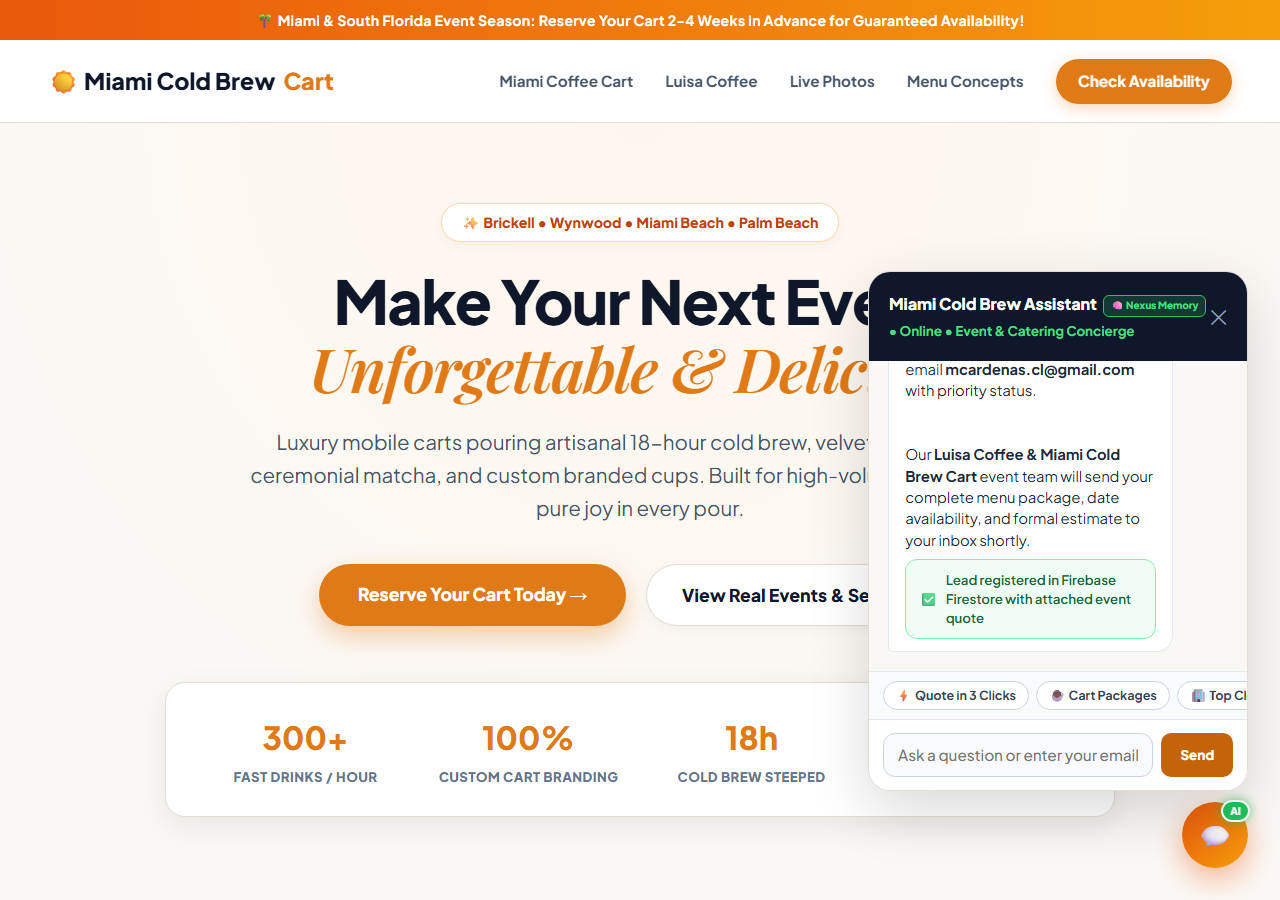
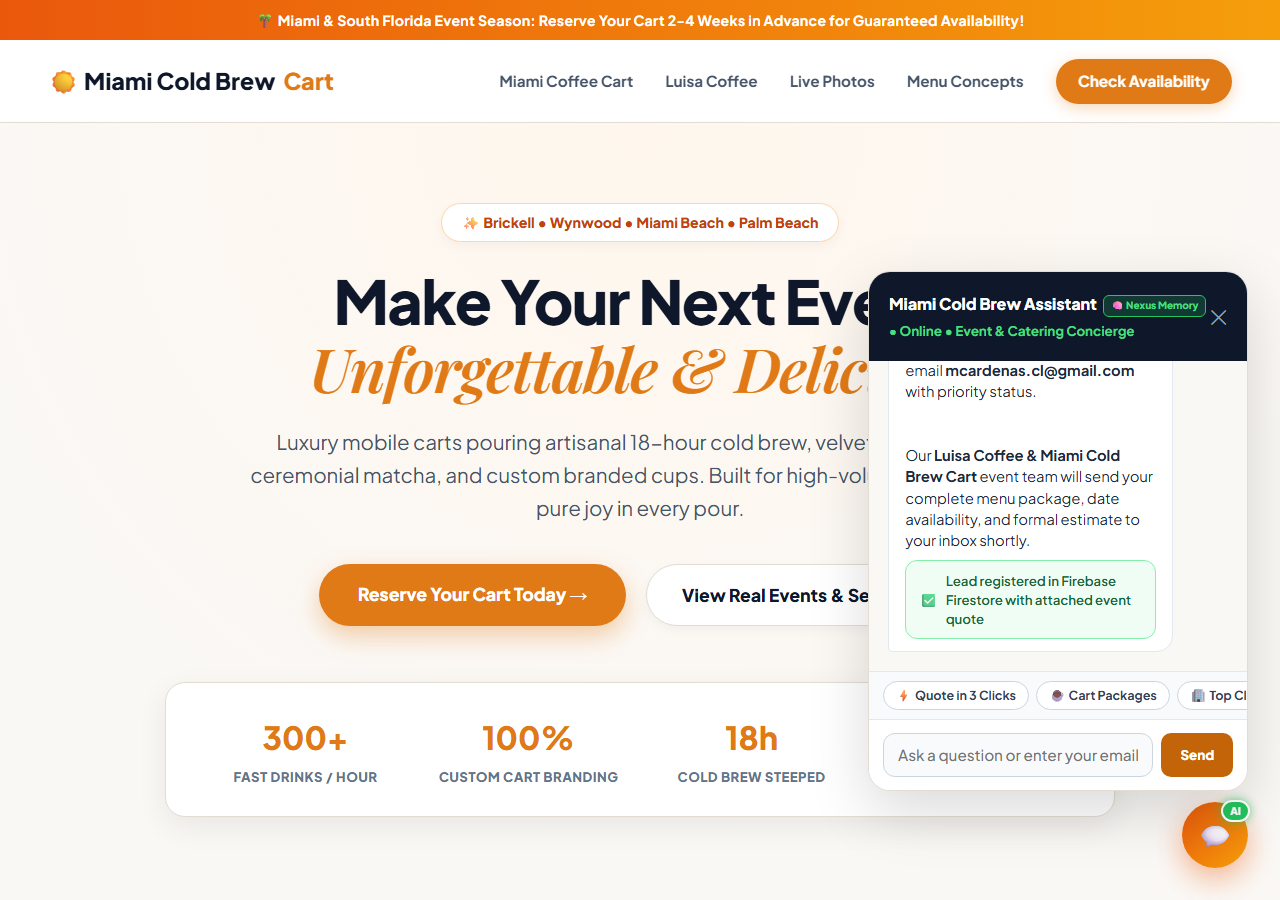
feat: integrate all 7 Luisa Coffee Group companies and multi-service combinations into chatbot, pipeline, and footer

Changed region(s): [[0.7188, 0.4978, 0.875, 0.5911], [0.7188, 0.6222, 0.875, 0.7156], [0.6875, 0.4044, 0.875, 0.4356]]

diff --git a/index.html b/index.html
@@ -1401,7 +1401,9 @@
       <a href="https://luisacoffee.com" target="_blank">Luisa Coffee</a>
       <a href="https://miamimatchacart.com" target="_blank">Miami Matcha Cart</a>
       <a href="https://miamihotchocolatecart.com" target="_blank">Miami Hot Chocolate Cart</a>
-      <a href="https://miamirefresercart.com" target="_blank">Miami Refresher Cart</a>
+      <a href="https://miamirefreshercart.com" target="_blank">Miami Refresher Cart</a>
+      <a href="https://miamicoffeeservices.com" target="_blank">Miami Coffee Services</a>
+      <a href="https://miamicoffeelab.com" target="_blank">Miami Coffee Lab</a>
       <a href="#book-event">Book Event</a>
     </div>
     <p style="font-size: 0.85rem; color: #64748b; margin-bottom: 0.8rem; max-width: 820px; margin-left: auto; margin-right: auto; line-height: 1.6;">
@@ -1500,7 +1502,15 @@
         { name: "Miami Coffee Cart", specialty: "Full Italian espresso bars, live latte art demonstrations, and 'Luisa Moments' live guestbook photo activations.", url: "https://miamicoffeecart.com" },
         { name: "Miami Matcha Cart", specialty: "Ceremonial Uji matcha whisked fresh to order, strawberry matcha lattes, and organic plant-based milks.", url: "https://miamimatchacart.com" },
         { name: "Miami Hot Chocolate Cart", specialty: "Gourmet Swiss/Belgian melted chocolate with hand-torched marshmallow toppings and edible gold flakes.", url: "https://miamihotchocolatecart.com" },
-        { name: "Miami Refresher Cart", specialty: "Handcrafted fruit refreshers, sparkling iced teas, and botanical herbal infusions.", url: "https://miamirefreshercart.com" }
+        { name: "Miami Refresher Cart", specialty: "Handcrafted fruit refreshers, sparkling iced teas, and botanical herbal infusions.", url: "https://miamirefreshercart.com" },
+        { name: "Miami Coffee Services", specialty: "Full-service office espresso machines, bean subscriptions, and breakroom coffee catering.", url: "https://miamicoffeeservices.com" },
+        { name: "Miami Coffee Lab", specialty: "Coffee education, tasting workshops, barista training, and sensory lab sessions.", url: "https://miamicoffeelab.com" }
+      ],
+      combinationServices: [
+        "Cold Brew + Espresso Dual Cart (Miami Cold Brew Cart + Miami Coffee Cart)",
+        "Coffee & Ceremonial Matcha Dual Bar (Espresso + Fresh Uji Matcha)",
+        "Ultimate 3-in-1 Triple Experience (Cold Brew + Espresso + Matcha & Refreshers)",
+        "Corporate Cart & Office Coffee Setup (Event Catering + Office Coffee Subscription)"
       ],
       trustedClients: [
         "Mana Tech", "Mana Wynwood", "Saks Fifth Avenue", "Merrill (A Bank of America Company)",
@@ -1609,6 +1619,8 @@ Select your preferred beverage cart experience:`,
               <button type="button" class="chat-opt-btn" onclick="selectInteractiveConcept('Ceremonial Matcha & Refreshers')">🍵 Matcha Bar</button>
               <button type="button" class="chat-opt-btn" onclick="selectInteractiveConcept('Specialty Espresso & Latte Art')">☕ Espresso & Latte</button>
               <button type="button" class="chat-opt-btn" onclick="selectInteractiveConcept('Gourmet Hot Chocolate Bar')">🍫 Hot Chocolate</button>
+              <button type="button" class="chat-opt-btn" onclick="selectInteractiveConcept('Multi-Bar Combination (Cold Brew + Espresso + Matcha)')">✨ Multi-Bar Combo (Cold Brew + Espresso + Matcha)</button>
+              <button type="button" class="chat-opt-btn" onclick="selectInteractiveConcept('Corporate Office Coffee & Event Service (Miami Coffee Services)')">🏢 Office Coffee & Events</button>
             </div>
           </div>`
         );
@@ -1776,16 +1788,19 @@ Or type your email or phone number here and we'll connect with you right away!`
       }
 
       // Packages
-      if (q.includes('package') || q.includes('menu') || q.includes('offer') || q.includes('option') || q.includes('paquete')) {
+      if (q.includes('package') || q.includes('menu') || q.includes('offer') || q.includes('option') || q.includes('paquete') || q.includes('brand') || q.includes('group') || q.includes('combine') || q.includes('combo')) {
         return {
           type: 'info',
-          text: `☕ <strong>Our 5 Mobile Beverage Experiences:</strong><br><br>
-1⃣ <strong>Signature Nitro Cold Brew Bar:</strong> Nitrogen-infused cold brew on tap with velvety cascading foam and artisan syrups.<br>
-2⃣ <strong>Ceremonial Matcha Bar:</strong> Uji ceremonial-grade matcha whisked fresh to order and organic fruit refreshers.<br>
-3⃣ <strong>Specialty Espresso Bar:</strong> Italian commercial espresso machine, cortados, flat whites, and live latte art.<br>
-4⃣ <strong>Gourmet Hot Chocolate Bar:</strong> Rich Belgian chocolate with torched artisan marshmallows and gold leaf flake.<br>
-5⃣ <strong>Craft Fruit Refresher Bar:</strong> Cold-pressed juices, sparkling botanical infusions, and mocktails.<br><br>
-Click <strong>'⚡ Quote in 3 Clicks'</strong> above to calculate your event price in seconds!`
+          text: `🌿 <strong>Luisa Coffee Group Brands & Experiences:</strong><br><br>
+1⃣ <strong>Miami Cold Brew Cart:</strong> Nitrogen-infused cold brew on tap with cascading crema (<a href="https://miamicoldbrewcart.com" target="_blank" style="color:var(--primary);">miamicoldbrewcart.com</a>)<br>
+2⃣ <strong>Miami Coffee Cart:</strong> Mobile espresso bars, live latte art & Luisa Moments live guestbook (<a href="https://miamicoffeecart.com" target="_blank" style="color:var(--primary);">miamicoffeecart.com</a>)<br>
+3⃣ <strong>Miami Matcha Cart:</strong> Ceremonial Uji matcha whisked fresh to order (<a href="https://miamimatchacart.com" target="_blank" style="color:var(--primary);">miamimatchacart.com</a>)<br>
+4⃣ <strong>Miami Hot Chocolate Cart:</strong> Artisanal hot chocolate with torched marshmallows & gold flake (<a href="https://miamihotchocolatecart.com" target="_blank" style="color:var(--primary);">miamihotchocolatecart.com</a>)<br>
+5⃣ <strong>Miami Refresher Cart:</strong> Sparkling iced teas & botanical fruit refreshers (<a href="https://miamirefreshercart.com" target="_blank" style="color:var(--primary);">miamirefreshercart.com</a>)<br>
+6⃣ <strong>Miami Coffee Services:</strong> Corporate office coffee machines & bean supply (<a href="https://miamicoffeeservices.com" target="_blank" style="color:var(--primary);">miamicoffeeservices.com</a>)<br>
+7⃣ <strong>Miami Coffee Lab:</strong> Barista training, tasting classes & sensory workshops (<a href="https://miamicoffeelab.com" target="_blank" style="color:var(--primary);">miamicoffeelab.com</a>)<br><br>
+✨ <strong>Yes, you can combine services!</strong> We offer custom dual-bar and triple-bar activations (e.g. <em>Cold Brew + Espresso + Matcha</em>) tailored for high-volume corporate and wedding events.<br><br>
+Click <strong>'⚡ Quote in 3 Clicks'</strong> to calculate an estimate!`
         };
       }
 

diff --git a/functions/index.js b/functions/index.js
@@ -33,9 +33,35 @@ function defineScope(profile) {
   const bottleneck = (profile.bottleneck || "").toLowerCase();
   const kw = helpWith + " " + bottleneck;
 
-  if (kw.includes("matcha") || kw.includes("refresher") || kw.includes("content")) {
+  if (kw.includes("combination") || kw.includes("multi-bar") || kw.includes("combo") || (kw.includes("cold brew") && kw.includes("espresso")) || (kw.includes("cold brew") && kw.includes("matcha"))) {
     return {
-      service: "Ceremonial Matcha & Tropical Refresher Activation",
+      service: "Luisa Coffee Group Custom Multi-Bar Experience (Cold Brew + Espresso + Matcha)",
+      deliverables: [
+        "Dual mobile cart stations: Signature Nitro Cold Brew + Commercial Italian Espresso & Matcha bar",
+        "Unlimited single-origin 18-hour cold brew on tap, velvety nitro cascades, and hot espresso specialties",
+        "Ceremonial Uji matcha whisked fresh to order + tropical handcrafted refreshers",
+        "Custom branded cup sleeves and personalized event menu signage with your logo",
+        "3 Certified professional baristas delivering ultra-fast service for 200+ guests with zero line waiting",
+        "Complete dairy and organic plant-based milk bar (oat, almond, whole) and gourmet artisan syrups"
+      ],
+      timeline: "3 to 4 hours unlimited multi-station beverage service",
+      outOfScope: "Alcoholic cocktail mixing without designated venue liquor liability rider."
+    };
+  } else if (kw.includes("office") || kw.includes("corporate service") || kw.includes("lab") || kw.includes("service")) {
+    return {
+      service: "Miami Coffee Services & Lab Corporate Program",
+      deliverables: [
+        "Commercial automated bean-to-cup espresso equipment setup tailored for corporate spaces",
+        "Fresh weekly delivery of 100% Arabica Colombian specialty roast from Luisa Coffee",
+        "Full staff barista training and cupping workshop from Miami Coffee Lab",
+        "Turnkey preventive maintenance, water filtration exchange, and continuous bean replenishment"
+      ],
+      timeline: "Ongoing corporate service subscription & on-site event activation",
+      outOfScope: "Third-party equipment repair for uncertified hardware."
+    };
+  } else if (kw.includes("matcha") || kw.includes("refresher") || kw.includes("content")) {
+    return {
+      service: "Ceremonial Matcha & Tropical Refresher Activation (Miami Matcha & Refresher Cart)",
       deliverables: [
         "Premium Uji ceremonial-grade matcha whisked fresh to order (iced or warm)",
         "Handcrafted tropical refresher bar: Strawberry Hibiscus, Mango Passionfruit, Yuzu Mint",
@@ -48,7 +74,7 @@ function defineScope(profile) {
     };
   } else if (kw.includes("espresso") || kw.includes("hot coffee") || kw.includes("latte") || kw.includes("lead")) {
     return {
-      service: "Full Specialty Espresso & Latte Art Bar",
+      service: "Full Specialty Espresso & Latte Art Bar (Miami Coffee Cart)",
       deliverables: [
         "Commercial 2-group Italian espresso machine mounted on boutique coffee cart",
         "Complete hot espresso menu: Cortados, Flat Whites, Cappuccinos, Lattes, and Americanos",
@@ -62,7 +88,7 @@ function defineScope(profile) {
     };
   } else if (kw.includes("hot chocolate") || kw.includes("winter") || kw.includes("cocoa") || kw.includes("custom")) {
     return {
-      service: "Winter Gourmet Hot Chocolate & Warm Beverage Bar",
+      service: "Winter Gourmet Hot Chocolate & Warm Beverage Bar (Miami Hot Chocolate Cart)",
       deliverables: [
         "Rich European-style melted chocolate & velvety Swiss cocoa bars",
         "Gourmet toppings: hand-torched artisan marshmallows, crushed peppermint, cinnamon whipped cream",
@@ -76,7 +102,7 @@ function defineScope(profile) {
 
   // Default: Signature Nitro Cold Brew
   return {
-    service: "Signature Nitro Cold Brew & Iced Specialty Bar",
+    service: "Signature Nitro Cold Brew & Iced Specialty Bar (Miami Cold Brew Cart)",
     deliverables: [
       "Handcrafted wooden mobile cart with dual-tap nitrogen draft system",
       "Single-origin nitrogen-infused cold brew & ceremonial iced matcha on tap",

diff --git a/GEMINI.md b/GEMINI.md
@@ -24,7 +24,15 @@
   3. **Miami Matcha Cart** (`https://miamimatchacart.com` | `matcha@luisacoffee.com`): Ceremonial-grade Japanese matcha prepared fresh on-site with specialty infusions (Strawberry Matcha, Iced Matcha Lattes).
   4. **Miami Hot Chocolate Cart** (`https://miamihotchocolatecart.com` | `hotchocolate@luisacoffee.com`): Gourmet hot chocolate bar with artisanal toppings (shaved chocolate, gold flake, torched marshmallows).
   5. **Miami Refresher Cart** (`https://miamirefreshercart.com` | `refresher@luisacoffee.com`): Craft fruit refreshers, sparkling iced teas, and botanical hydration mocktails.
-  6. **Sister Brands:** Miami Coffee Services (`miamicoffeeservices.com`), Miami Coffee Lab (`miamicoffeelab.com`).
+  6. **Miami Coffee Services** (`https://miamicoffeeservices.com`): Commercial bean-to-cup espresso machines, weekly roasted bean delivery, and full-service office coffee subscriptions for companies across South Florida.
+  7. **Miami Coffee Lab** (`https://miamicoffeelab.com`): Sensory coffee training, professional barista workshops, private cupping events, and corporate team-building experiences.
+
+- **Multi-Service Combinations:**
+  - Clients can freely combine services into dual or triple cart stations:
+    - *Dual Bar:* Nitro Cold Brew + Italian Espresso Bar.
+    - *Dual Bar:* Specialty Coffee + Ceremonial Matcha & Refreshers.
+    - *Triple Experience:* Cold Brew + Espresso + Matcha / Hot Chocolate Bar.
+    - *Corporate Hybrid:* Live Event Catering + Ongoing Office Coffee Setup with Miami Coffee Services.
 
 ---
 
